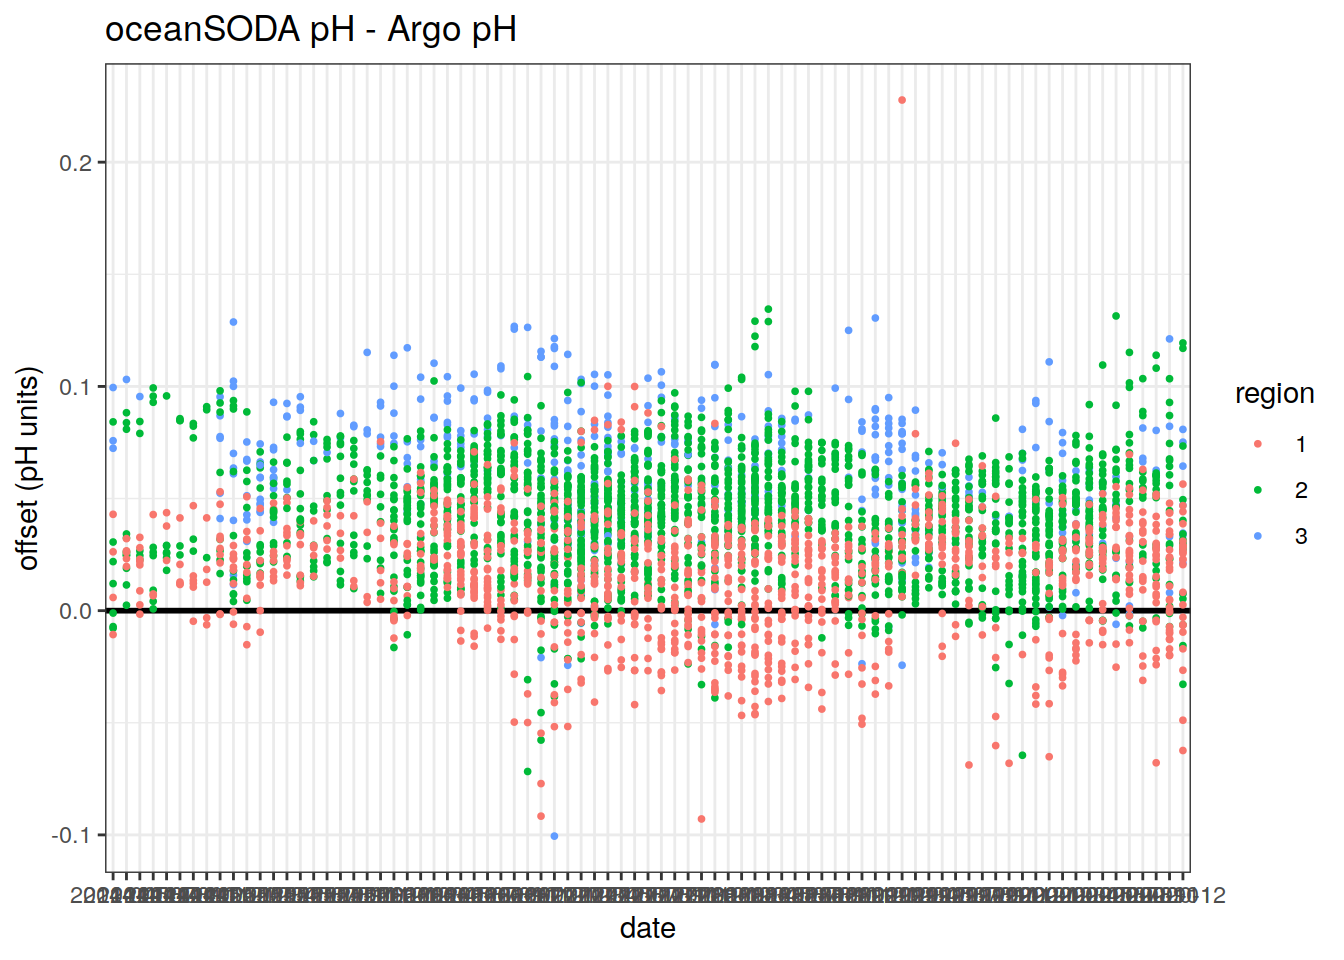
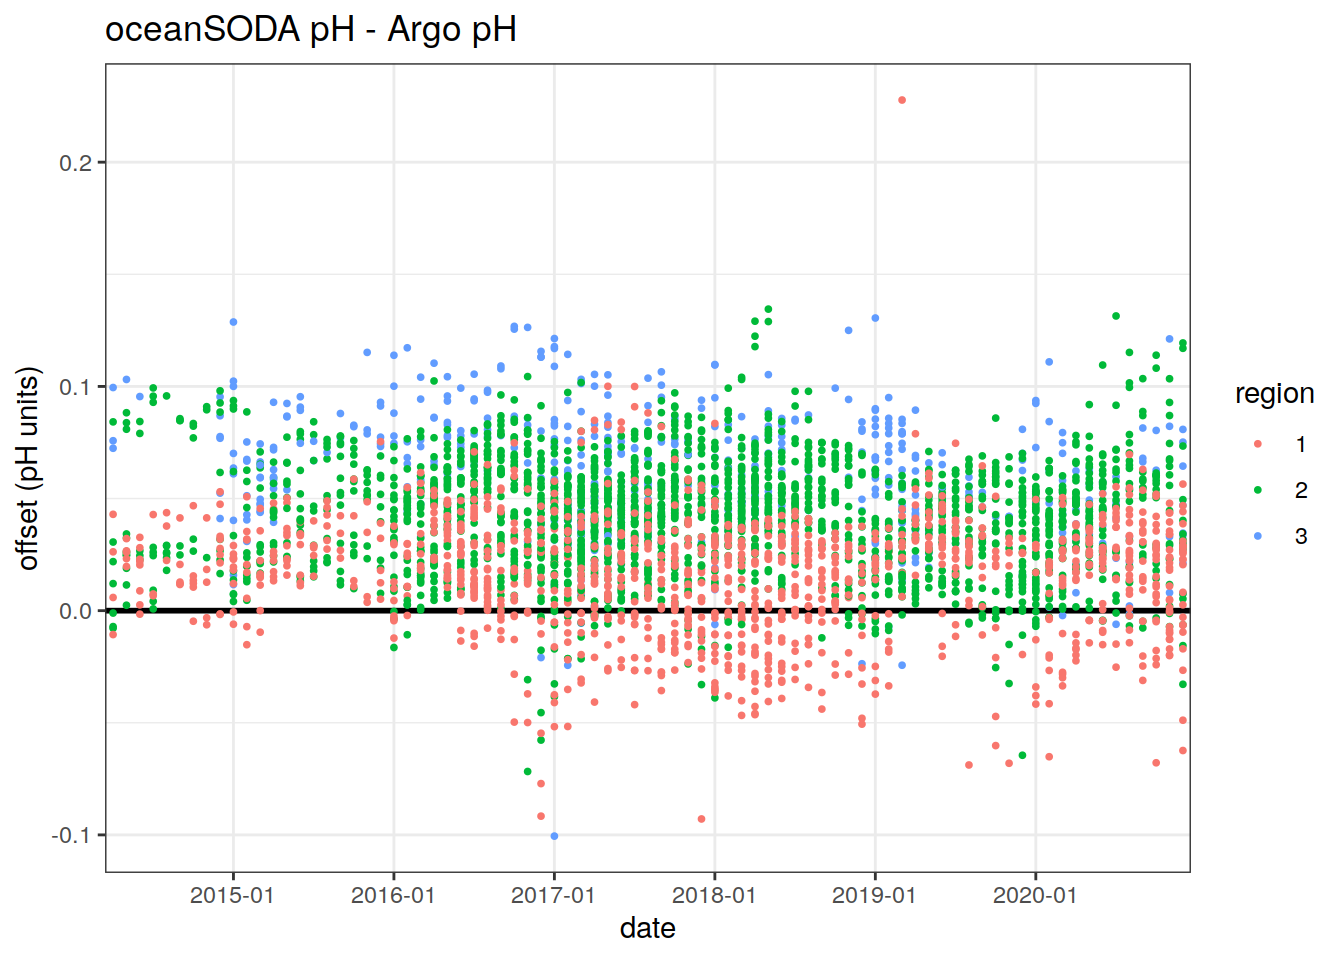
Build site.

Changed region(s): [[0.0625, 0.9062, 0.9062, 0.9375]]

diff --git a/docs/oceanSODA_argo.html b/docs/oceanSODA_argo.html
@@ -527,16 +527,16 @@ This reproducible <a href="http://rmarkdown.rstudio.com">R Markdown</a> analysis
 <div class="panel panel-default">
 <div class="panel-heading">
 <p class="panel-title">
-<a data-toggle="collapse" data-parent="#workflowr-checks" href="#strongRepositoryversionstrongahrefhttpsgithubcomjensdanielmuellerbgcargorargodatatreefa7505037cc826bd773b9bd1918452d3e18d2573targetblankfa75050a"> <span class="glyphicon glyphicon-ok text-success" aria-hidden="true"></span> <strong>Repository version:</strong> <a href="https://github.com/jens-daniel-mueller/bgc_argo_r_argodata/tree/fa7505037cc826bd773b9bd1918452d3e18d2573" target="_blank">fa75050</a> </a>
+<a data-toggle="collapse" data-parent="#workflowr-checks" href="#strongRepositoryversionstrongahrefhttpsgithubcomjensdanielmuellerbgcargorargodatatree78ba6f569650a7396ec7929f2f34d0626543eb0ftargetblank78ba6f5a"> <span class="glyphicon glyphicon-ok text-success" aria-hidden="true"></span> <strong>Repository version:</strong> <a href="https://github.com/jens-daniel-mueller/bgc_argo_r_argodata/tree/78ba6f569650a7396ec7929f2f34d0626543eb0f" target="_blank">78ba6f5</a> </a>
 </p>
 </div>
[2 lines of base64/hex data omitted]
 <div class="panel-body">
 <p>
 Great! You are using Git for version control. Tracking code development and connecting the code version to the results is critical for reproducibility.
 </p>
 <p>
-The results in this page were generated with repository version <a href="https://github.com/jens-daniel-mueller/bgc_argo_r_argodata/tree/fa7505037cc826bd773b9bd1918452d3e18d2573" target="_blank">fa75050</a>. See the <em>Past versions</em> tab to see a history of the changes made to the R Markdown and HTML files.
+The results in this page were generated with repository version <a href="https://github.com/jens-daniel-mueller/bgc_argo_r_argodata/tree/78ba6f569650a7396ec7929f2f34d0626543eb0f" target="_blank">78ba6f5</a>. See the <em>Past versions</em> tab to see a history of the changes made to the R Markdown and HTML files.
 </p>
 <p>
 Note that you need to be careful to ensure that all relevant files for the analysis have been committed to Git prior to generating the results (you can use <code>wflow_publish</code> or <code>wflow_git_commit</code>). workflowr only checks the R Markdown file, but you know if there are other scripts or data files that it depends on. Below is the status of the Git repository when the results were generated:
@@ -590,6 +590,40 @@ Message
 </tr>
 </thead>
 <tbody>
+<tr>
+<td>
+Rmd
+</td>
+<td>
+<a href="https://github.com/jens-daniel-mueller/bgc_argo_r_argodata/blob/78ba6f569650a7396ec7929f2f34d0626543eb0f/analysis/oceanSODA_argo.Rmd" target="_blank">78ba6f5</a>
+</td>
+<td>
+pasqualina-vonlanthendinenna
+</td>
+<td>
+2021-12-03
+</td>
+<td>
+made date axis better
+</td>
+</tr>
+<tr>
+<td>
+html
+</td>
+<td>
+<a href="https://rawcdn.githack.com/jens-daniel-mueller/bgc_argo_r_argodata/c391b999016ac02d31c2bc1a2989e613088e9207/docs/oceanSODA_argo.html" target="_blank">c391b99</a>
+</td>
+<td>
+pasqualina-vonlanthendinenna
+</td>
+<td>
+2021-12-03
+</td>
+<td>
+Build site.
+</td>
+</tr>
 <tr>
 <td>
 Rmd
@@ -930,7 +964,7 @@ map &lt;-
 
 argo_OceanSODA &lt;- left_join(argo_monthly, OceanSODA) %&gt;%
   rename(OceanSODA_ph = ph_total,
-         OceanSODA_ph_error = ph_total_uncert)</code></pre>
+         OceanSODA_ph_error = ph_total_uncert) </code></pre>
 <pre><code>Joining, by = c(&quot;date&quot;, &quot;year&quot;, &quot;lon&quot;, &quot;lat&quot;)</code></pre>
 <pre class="r"><code>argo_OceanSODA %&gt;%
   write_rds(file = paste0(path_argo_preprocessed, &quot;/argo_OceanSODA.rds&quot;))</code></pre>
@@ -1512,6 +1546,7 @@ argo_OceanSODA_SO %&gt;%
   ggplot() +
   geom_hline(yintercept = 0, size = 1)+
   geom_point(aes(x = date, y = offset, col = value), size = 0.7, pch = 19) +
+  scale_x_discrete(breaks = c(&#39;2014-01&#39;, &#39;2015-01&#39;, &#39;2016-01&#39;, &#39;2017-01&#39;, &#39;2018-01&#39;, &#39;2019-01&#39;, &#39;2020-01&#39;))+
   labs(title = &#39;oceanSODA pH - Argo pH&#39;,
        x = &#39;date&#39;,
        y = &#39;offset (pH units)&#39;,
@@ -1605,6 +1640,7 @@ pasqualina-vonlanthendinenna
                   group = value, 
                   fill =value),
               alpha = 0.2)+
+  scale_x_discrete(breaks = c(&#39;2014-01&#39;, &#39;2015-01&#39;, &#39;2016-01&#39;, &#39;2017-01&#39;, &#39;2018-01&#39;, &#39;2019-01&#39;, &#39;2020-01&#39;))+
   # facet_wrap(~year)+
   labs(title = &#39;Mean offset (in situ oceanSODA pH - in situ Argo pH)&#39;,
        x = &#39;date&#39;,
@@ -1687,6 +1723,17 @@ Date
 </tr>
 </thead>
 <tbody>
+<tr>
+<td>
+<a href="https://github.com/jens-daniel-mueller/bgc_argo_r_argodata/blob/c391b999016ac02d31c2bc1a2989e613088e9207/docs/figure/oceanSODA_argo.Rmd/calculate_clim_offset-1.png" target="_blank">c391b99</a>
+</td>
+<td>
+pasqualina-vonlanthendinenna
+</td>
+<td>
+2021-12-03
+</td>
+</tr>
 <tr>
 <td>
 <a href="https://github.com/jens-daniel-mueller/bgc_argo_r_argodata/blob/6a5024ee564d229ed2a8fbd6e7fb6d457ac1af27/docs/figure/oceanSODA_argo.Rmd/calculate_clim_offset-1.png" target="_blank">6a5024e</a>
